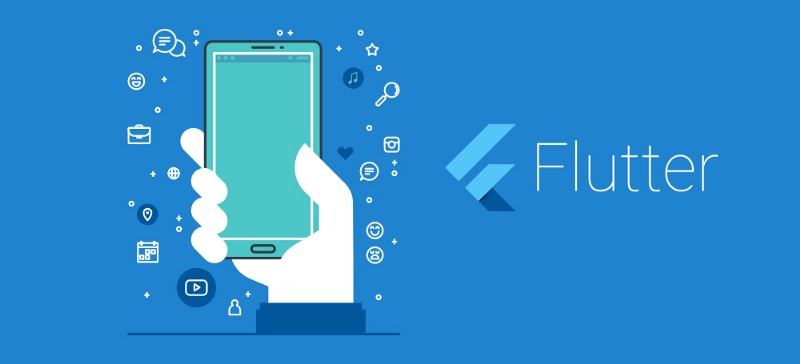
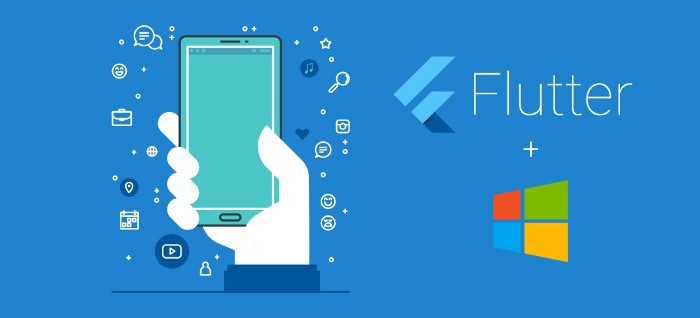
flutter for macOS article update

diff --git a/index.html b/index.html
@@ -919,25 +919,24 @@
               </a>
             </div>
             <div class="col-md-6">
-              <a>
+              <a href="https://pndjay.medium.com/install-flutter-and-setup-vs-code-for-cross-platform-app-development-on-macos-3bde9e86082c">
                 <div class="work-box work-box-zoom">
                   <div class="work-img">
-                    <img src="assets/img/articles/install-flutter-windows.jpeg" alt="" height="300px" class="img-fluid" />
+                    <img src="assets/img/articles/install-flutter-mac.jpeg" alt="" height="300px" class="img-fluid" />
                   </div>
                   <div class="work-content">
                     <div class="row">
                       <div class="col-sm-12">
                         <h2 class="w-title">Install Flutter and Setup VS Code for Cross-platform App Development on macOS</h2>
-                        <div class="w-more"><span class="w-ctegory" style="color: red">IN PROGRESS</span></div>
+                        <div class="w-more">
+                          <span class="w-ctegory">Medium</span> / <span class="w-date">22<sup>nd</sup> May, 2020</span>
+                        </div>
                       </div>
                     </div>
                   </div>
                 </div>
               </a>
             </div>
-          </div>
-          <div style="text-align: center">
-            <h7 style="color: #3bdcff; border: 2px solid; padding: 5px; border-radius: 10px">MORE ON THE WAY!</h7>
           </div>
         </div>
       </section>
